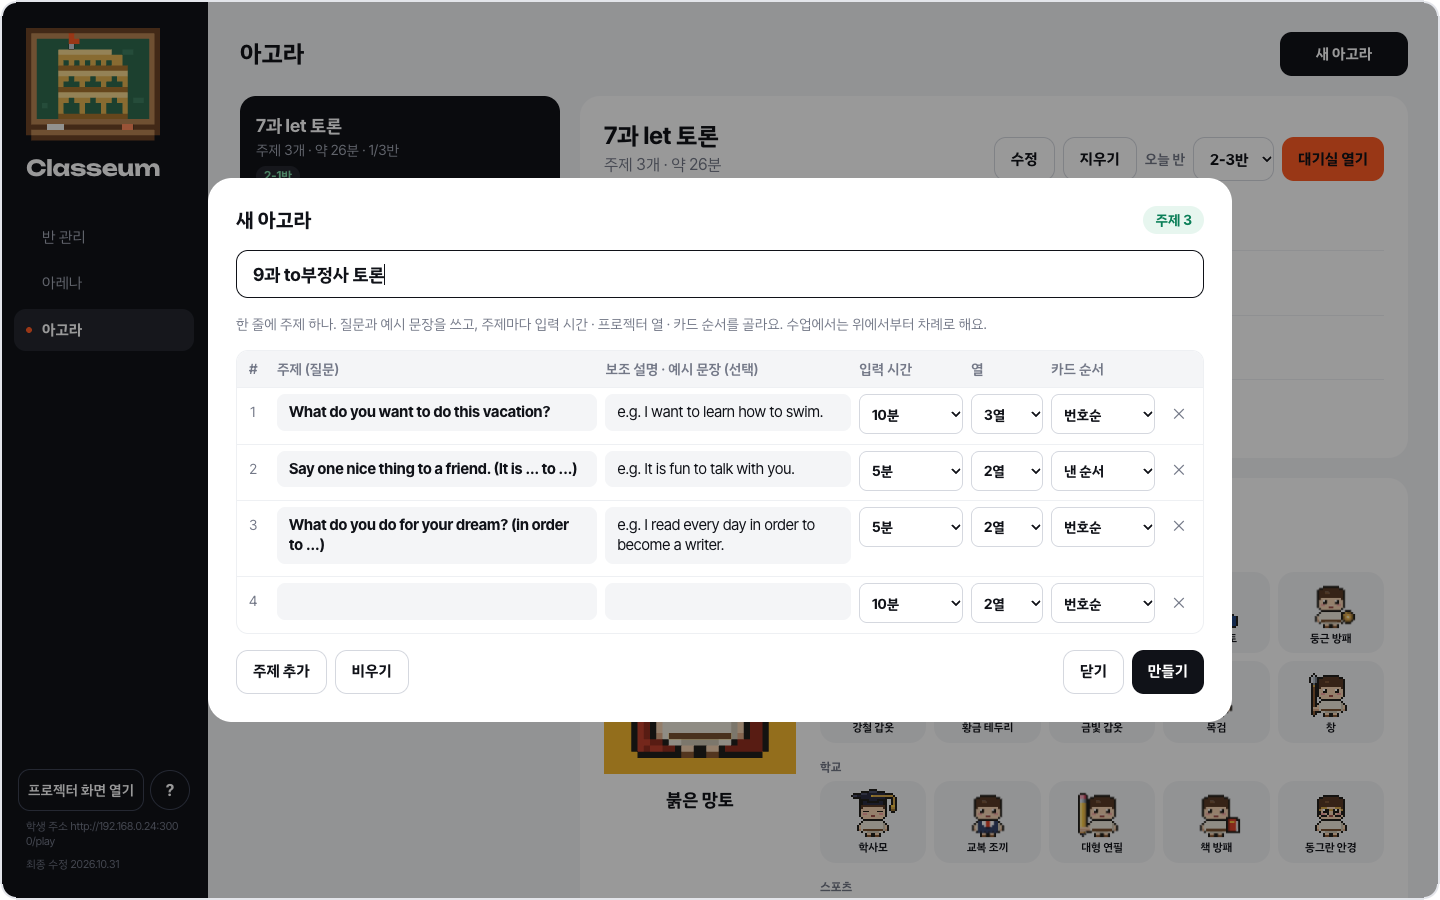
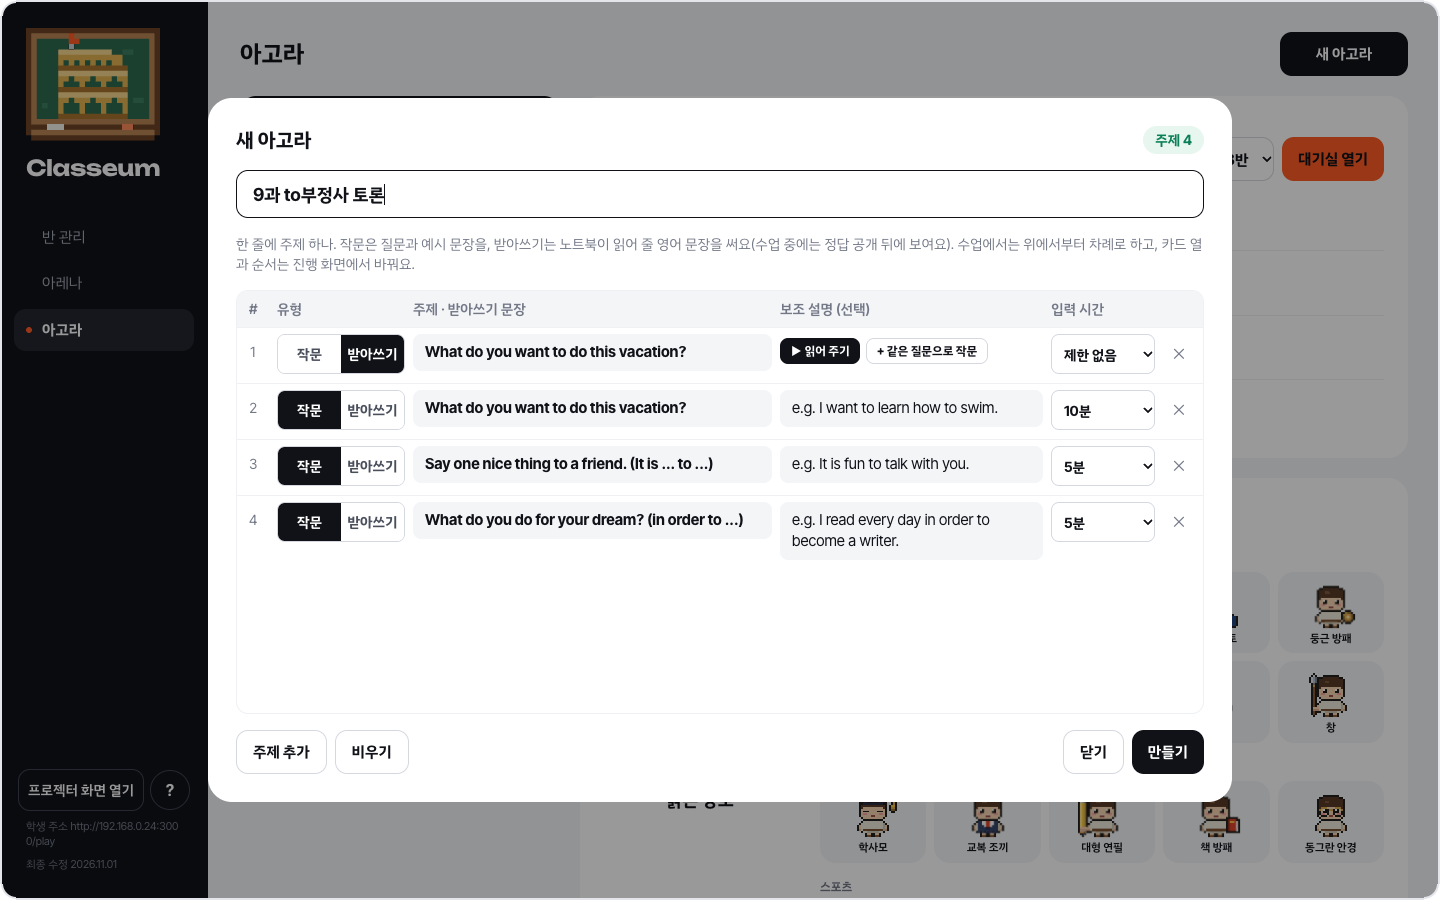
[만들기] in [새 아고라] and [미리보기] in [직접 작성하기] can always be pressed and say what is missing; the README's 아고라 photos are retaken
- A grey button with no reason looked broken. Pressed with no title, [만들기] says 제목을 써 주세요 in red beside [닫기], outlines the title in red and moves there; with no topic, it says 주제를 하나 이상 써 주세요 and moves to topic 1. The note goes once the box is filled in.
- [미리보기], pressed with no row that has both a word and its meaning, says 단어와 뜻을 한 줄 이상 써 주세요 and moves to the first half-written row (or the first row). More than 200 rows still greys it out, with its note.
- README photos: the [새 아고라] window with its 유형 column and a 받아쓰기 row; the console on page 1/3, since its preview now shows only the projector's page, which pairs it with the 함께 보기 photo; the 아고라 lobby and end with 최지안's current look. The 아고라 tab and 함께 보기 photos hadn't changed and are kept.

diff --git a/src/app/teacher/page.tsx b/src/app/teacher/page.tsx
@@ -679,6 +679,15 @@ function WordEditor({ draft, setDraft, busy, onClose, onPreview, onExcel }: { dr
   const over = used > TYPED_WORDS_MAX;
   const setCell = (row: number, col: number, value: string) => setDraft((d) => ({ ...d, rows: d.rows.map((r, i) => (i === row ? { ...r, [keys[col]]: value } : r)) }));
   const focus = (row: number, col: number) => requestAnimationFrame(() => cells.current[row]?.[col]?.focus());
+  // [미리보기] never sits there greyed out without a reason, as in [새 아고라]: pressed with no row that has both a
+  // word and its meaning, it says so and goes to the first half-written row (or the first row).
+  const [tried, setTried] = useState(false);
+  const preview = () => {
+    setTried(true);
+    if (filled > 0) return onPreview();
+    const row = Math.max(0, draft.rows.findIndex((r) => r.spelling.trim() || r.meaning.trim()));
+    focus(row, draft.rows[row]?.spelling.trim() ? 1 : 0);
+  };
   const paste = (row: number, col: number) => (e: React.ClipboardEvent<HTMLInputElement>) => {
     const text = e.clipboardData.getData('text').replace(/\r/g, '');
     if (!/[\t\n]/.test(text.trim())) return;
@@ -772,11 +781,13 @@ function WordEditor({ draft, setDraft, busy, onClose, onPreview, onExcel }: { dr
           <div className="flex items-center gap-3">
             {over ? (
               <span className="text-sm font-semibold text-bad">한 번에 {TYPED_WORDS_MAX}개까지예요 (지금 {used}개) · 나눠서 만들어 주세요</span>
+            ) : tried && filled === 0 ? (
+              <span role="alert" className="text-sm font-semibold text-bad">단어와 뜻을 한 줄 이상 써 주세요</span>
             ) : (
               filled > 0 && filled < 4 && <span className="text-sm text-ink-3">단어가 4개 이상이면 보기를 잘 만들 수 있어요</span>
             )}
             <Btn kind="ghost" onClick={onClose}>닫기</Btn>
-            <Btn disabled={busy || filled === 0 || over} onClick={onPreview}>{busy ? '만드는 중…' : '미리보기'}</Btn>
+            <Btn disabled={busy || over} onClick={preview}>{busy ? '만드는 중…' : '미리보기'}</Btn>
           </div>
         </div>
       </div>
@@ -1584,6 +1595,18 @@ function AgoraEditor({ draft, change, busy, onClose, onSave }: { draft: AgoraDra
   };
   const { speak, stop, speaking, canSpeak } = useSpeech();
   const [reading, setReading] = useState<number | null>(null);
+  // [만들기] never sits there greyed out without a reason: pressed with something missing, it says what and goes to
+  // that box; the note goes once it's filled in.
+  const titleRef = useRef<HTMLInputElement>(null);
+  const topicRef = useRef<HTMLTextAreaElement>(null);
+  const [tried, setTried] = useState(false);
+  const lack = !draft.title.trim() ? '제목을 써 주세요' : filled === 0 ? '주제를 하나 이상 써 주세요' : null;
+  const create = () => {
+    setTried(true);
+    if (!draft.title.trim()) titleRef.current?.focus();
+    else if (filled === 0) topicRef.current?.focus();
+    else onSave();
+  };
   return (
     <div className="fixed inset-0 z-50 flex items-center justify-center bg-black/40 p-8">
       {/* One height from opening to closing: more rows, or a row turned into 받아쓰기, scroll inside the table. */}
@@ -1593,13 +1616,15 @@ function AgoraEditor({ draft, change, busy, onClose, onSave }: { draft: AgoraDra
           <span className="rounded-full bg-good-soft px-3 py-1 text-sm font-bold text-good">주제 {filled}</span>
         </div>
         <input
+          ref={titleRef}
           value={draft.title}
           onChange={(e) => change((d) => ({ ...d, title: e.target.value }))}
           placeholder="제목 (예: 7과 let 토론)"
           maxLength={TITLE_MAX}
           autoFocus
           aria-label="제목"
-          className="h-12 shrink-0 rounded-xl border border-[#D5D8DF] px-4 text-lg font-bold outline-none focus:border-ink"
+          aria-invalid={tried && !draft.title.trim()}
+          className={`h-12 shrink-0 rounded-xl border px-4 text-lg font-bold outline-none ${tried && !draft.title.trim() ? 'border-bad ring-2 ring-bad/20' : 'border-[#D5D8DF] focus:border-ink'}`}
         />
         <p className="text-sm text-ink-3">한 줄에 주제 하나. 작문은 질문과 예시 문장을, 받아쓰기는 노트북이 읽어 줄 영어 문장을 써요(수업 중에는 정답 공개 뒤에 보여요). 수업에서는 위에서부터 차례로 하고, 카드 열과 순서는 진행 화면에서 바꿔요.</p>
         <div className="min-h-0 flex-1 overflow-y-auto rounded-xl border border-[#EEF0F3]">
@@ -1649,6 +1674,7 @@ function AgoraEditor({ draft, change, busy, onClose, onSave }: { draft: AgoraDra
                   </td>
                   <td className="py-1.5 pr-2">
                     <textarea
+                      ref={i === 0 ? topicRef : undefined}
                       value={r.text}
                       onChange={(e) => setRow(i, { text: e.target.value })}
                       rows={2}
@@ -1744,8 +1770,9 @@ function AgoraEditor({ draft, change, busy, onClose, onSave }: { draft: AgoraDra
             )}
           </div>
           <div className="flex items-center gap-2">
+            {tried && lack && <span role="alert" className="mr-1 text-sm font-semibold text-bad">{lack}</span>}
             <Btn kind="ghost" onClick={onClose}>닫기</Btn>
-            <Btn disabled={busy || !draft.title.trim() || filled === 0} onClick={onSave}>
+            <Btn disabled={busy} onClick={create}>
               {busy ? '저장 중…' : draft.agoraId ? '저장' : '만들기'}
             </Btn>
           </div>

diff --git a/docs/PLAN.md b/docs/PLAN.md
@@ -34,7 +34,7 @@
 2. 미리보기: 검사 결과(오류·경고 개수, 시트·행·칸과 고칠 방법)와 만들어질 문제 전체를 정답과 함께 보여 준다. 오류가 있으면 엑셀을 고쳐 다시 올리거나 [고치기]로 돌아간다.
 3. [이벤트 만들기]. 이름은 세트 칸 값, 비어 있으면 엑셀 파일 이름(`3주차 단어장.xlsx` → `3주차 단어장`), 직접 작성은 제목(비면 `10-26 퀴즈`처럼 날짜). 같은 이름이 있으면 `(2)`를 붙인다.
 4. 이벤트마다 문항 수, 문항당 시간, 예상 소요 시간을 보여 준다. 한 이벤트를 여러 반에서 돌아가며 연다. 목록과 상세에 이미 한 반(초록)과 아직 안 한 반(회색)이 나오고, 고른 반이 이미 했으면 대기실을 열기 전에 알려 준다.
-5. [엑셀로 받기]: 이벤트의 단어를 템플릿 모양 엑셀로 내려받는다(직접 작성 창과 이벤트 상세). 지난 이벤트는 나중에 단어장의 철자·뜻이 바뀌었어도 그 이벤트가 낸 문제의 철자·뜻으로 받는다. [직접 작성하기]는 한 번에 200줄까지(넘으면 미리보기 전에 알리고, 초안은 그대로).
+5. [엑셀로 받기]: 이벤트의 단어를 템플릿 모양 엑셀로 내려받는다(직접 작성 창과 이벤트 상세). 지난 이벤트는 나중에 단어장의 철자·뜻이 바뀌었어도 그 이벤트가 낸 문제의 철자·뜻으로 받는다. [직접 작성하기]는 한 번에 200줄까지(넘으면 미리보기 전에 알리고, 초안은 그대로). 단어와 뜻을 함께 쓴 줄이 없으면 [미리보기]를 눌렀을 때 그렇다고 알리고 반만 쓴 줄(없으면 첫 줄)로 옮겨 간다.
 
 ### 3.2 반과 첫 등록
 
@@ -150,7 +150,7 @@
 | 화면 | 모양 |
 |---|---|
 | 선생님 · 아고라 | 아레나 이벤트 화면 틀: 왼쪽 아고라 카드(제목 · 주제 수 · 약 몇 분 · 몇 반이 했는지, 한 반은 초록 칩), 오른쪽 상세(아레나 이벤트 카드와 같은 줄과 글자 크기: 제목, 주제 수 · 약 몇 분, ✏ 만든 날, 오른쪽 세로 가운데에 [수정] [지우기] · 오늘 반 · [대기실 열기], 반 칩과 고른 반이 했으면 '○반은 ○/○에 이 아고라를 했어요', 그 아래 주제 목록(질문 · 보조 설명 · 입력 시간 · 열 · 순서)), 그 아래 '이번 아고라 보상'(아레나 '이번 아레나 보상'과 같은 아이템 고르기, '칭찬 · 함께 볼 때 선생님이 ⭐를 준 학생이 받아요', [저장]), 그 아래 답 카드(그 반 수업 날 · [다시 보기] · 반 탭 · 주제 탭, 답마다 ⭐ 표시와 [지우기], 고친 답은 위에 '처음 · 처음 답') |
-| 선생님 · 새 아고라 | 아레나 [직접 작성하기] 창 틀: 제목, '주제 n' 칩, 표(# · 유형(작문/받아쓰기) · 주제 · 보조 설명 · 입력 시간 · ✕. 열·카드 순서는 진행 화면에서. 받아쓰기 줄은 보조 설명이 없어서 그 칸에 [▶ 읽어 주기] · [+ 같은 질문으로 작문]을 둬 작문 줄과 높이가 같다(작문을 넣었을 때와 답이 있어 문장이 잠겼을 때만 그 아래에 한 줄 안내). 창은 높이가 정해져 있어서 줄이 늘거나 유형을 바꿔도 크기가 그대로이고, 표 안에서 스크롤된다), 아래에 [주제 추가] [비우기] / [닫기] [만들기](고칠 때는 '아고라 고치기'와 [저장]) |
+| 선생님 · 새 아고라 | 아레나 [직접 작성하기] 창 틀: 제목, '주제 n' 칩, 표(# · 유형(작문/받아쓰기) · 주제 · 보조 설명 · 입력 시간 · ✕. 열·카드 순서는 진행 화면에서. 받아쓰기 줄은 보조 설명이 없어서 그 칸에 [▶ 읽어 주기] · [+ 같은 질문으로 작문]을 둬 작문 줄과 높이가 같다(작문을 넣었을 때와 답이 있어 문장이 잠겼을 때만 그 아래에 한 줄 안내). 창은 높이가 정해져 있어서 줄이 늘거나 유형을 바꿔도 크기가 그대로이고, 표 안에서 스크롤된다), 아래에 [주제 추가] [비우기] / [닫기] [만들기](고칠 때는 '아고라 고치기'와 [저장]). [만들기]는 늘 눌리고, 제목이나 주제가 비었으면 버튼 옆에 빠진 것을 빨갛게 알리고 그 칸으로 옮겨 간다 |
 | 선생님 · 대기실 | 아레나 대기실 틀: 위에 '대기실 / ○반 · 제목'과 노래 단추, 오른쪽에 [프로젝터 화면 열기] [놀이 방법] [대기실 닫기] [쓰기 시작](다시 보기면 [함께 보기]). 왼쪽에 오늘의 주제(주제 목록, 1번 강조. 다시 보기면 '다시 볼 주제'와 주제마다 그 반 답 수)와 들어온 학생, 오른쪽에 아직 안 들어옴 |
 | 선생님 · 진행 | 아레나 진행 화면 틀: 위 검은 띠에 반 · '아고라' · (다시 보기 · 날짜) · 지금 주제 / 주제 수 · 단계(준비 · 쓰기 · 마감 · 공개, 다시 보기에는 준비 없음, 끝에서는 '끝') · 남은 시간 · 보상 받은 수(⭐ n) · 노래 단추 · [아고라 닫기]. 왼쪽에 프로젝터 미리보기(아레나와 같은 자리와 크기의 16:8, 프로젝터가 지금 보여 주는 쪽의 카드만, 공개 여부, 쪽 ◀ ▶, 카드. 준비 중에는 주제만 크게)와 열 · 순서, 그 아래 점선 상자에 다음 주제. 오른쪽에 낸 학생 수와 이름(답 글과 처음 답은 프로젝터에 공개된 것만: 노트북 화면이 프로젝터에 그대로 비칠 수 있어서. 이름을 누르면 그 답만 공개·비공개, [⭐ 칭찬], 지우기. 받아쓰기는 이름과 ✓, 마감 뒤 [⭐ 칭찬]만)과 아직 안 낸 학생(준비 중에는 들어온 학생 수). 대기실·아고라 화면의 주제 목록과 다음 주제에는 받아쓰기 문장 대신 '🎧 받아쓰기', 아직 공개 안 한 받아쓰기 문장과 같은 작문 질문은 '✏ 작문 · 받아쓴 질문에 답하기'. 아래 띠에 [−1분] [+1분] [전체 공개/비공개] (다시 보기면 [다시 쓰기]) [건너뛰기 S]와 큰 버튼 하나: [쓰기 시작] → [지금 마감] → [전체 공개] → [다음 쪽] → [다음 주제] …, 마지막 주제는 [끝내기], 끝에서 [아고라 닫기](다시 보기의 마지막 주제는 바로 [아고라 닫기]). 끝에서는 함께 쓴 답 수, 보상 받은 학생, 주제마다 낸 학생 수. 키: Enter 쓰기 시작·지금 마감·전체 공개·다음 주제(끝내기·닫기는 누르기만), ←/→ 쪽, ↑/↓ 1분, S 건너뛰기 |
 | 프로젝터 | 대기실은 위 3번(오늘의 주제 옆에 오늘의 보상. 두 카드는 아레나 보상 카드만큼 높아서 캐릭터가 아레나와 같은 자리에 선다), 준비는 8번, 끝은 9번(오늘의 보상 받은 친구 수와 행진의 다이아몬드). 쓰기부터 위에 반 이름 · '아고라' 알약 · (마감 / 다시 보기 · 날짜 / 다시 쓰기) · 남은 입력 시간(아레나 시계 알약, 마지막 1분은 주황) · 지금 주제 / 주제 수(둘 이상일 때) · ✓ 낸 수 / 카드 수. 흰 상자에 주제를 크게(보조 설명은 작게). 아래에 학생 카드를 1~4열로: 캐릭터, 번호 이름, 답(비공개면 '✓ 냈어요'). 넘치면 글 길이를 재서 쪽으로 나누고(긴 답은 글씨를 조금 줄인다, 프로젝터가 몇 쪽인지 잰 뒤에 서버에 알린다. 창을 다시 열어도 선생님이 넘긴 쪽은 그대로), 선생님 화면이나 프로젝터 창 ←/→로 넘긴다. 낸 카드를 누르면 그 답만 공개·비공개. 별 받은 카드는 금색 테두리와 '⭐ 칭찬', 캐릭터가 반짝인다 |

diff --git a/README.md b/README.md
@@ -87,8 +87,8 @@
 아레나와 아고라는 한 번에 하나만 프로젝터에 떠요.
 
 <p align="center">
-  <img src="docs/images/teacher-agora-editor.png" width="49%" alt="새 아고라 창: 제목과 표 한 줄에 주제 하나, 주제마다 입력 시간·열·카드 순서">
-  <img src="docs/images/teacher-agora-console.png" width="49%" alt="아고라 진행 화면: 위에 1/3과 칭찬 별 수, 프로젝터 미리보기, 다음 주제, 낸 학생과 답의 칭찬 단추, 다음 주제 버튼">
+  <img src="docs/images/teacher-agora-editor.png" width="49%" alt="새 아고라 창: 제목과 표 한 줄에 주제 하나, 주제마다 유형(작문·받아쓰기)과 입력 시간, 받아쓰기 줄의 [▶ 읽어 주기]와 [+ 같은 질문으로 작문]">
+  <img src="docs/images/teacher-agora-console.png" width="49%" alt="아고라 진행 화면: 위에 1/3과 칭찬 별 수, 프로젝터와 같은 쪽의 미리보기, 다음 주제, 낸 학생과 답의 칭찬 단추, 다음 쪽 버튼">
 </p>
 
 <p align="center">
